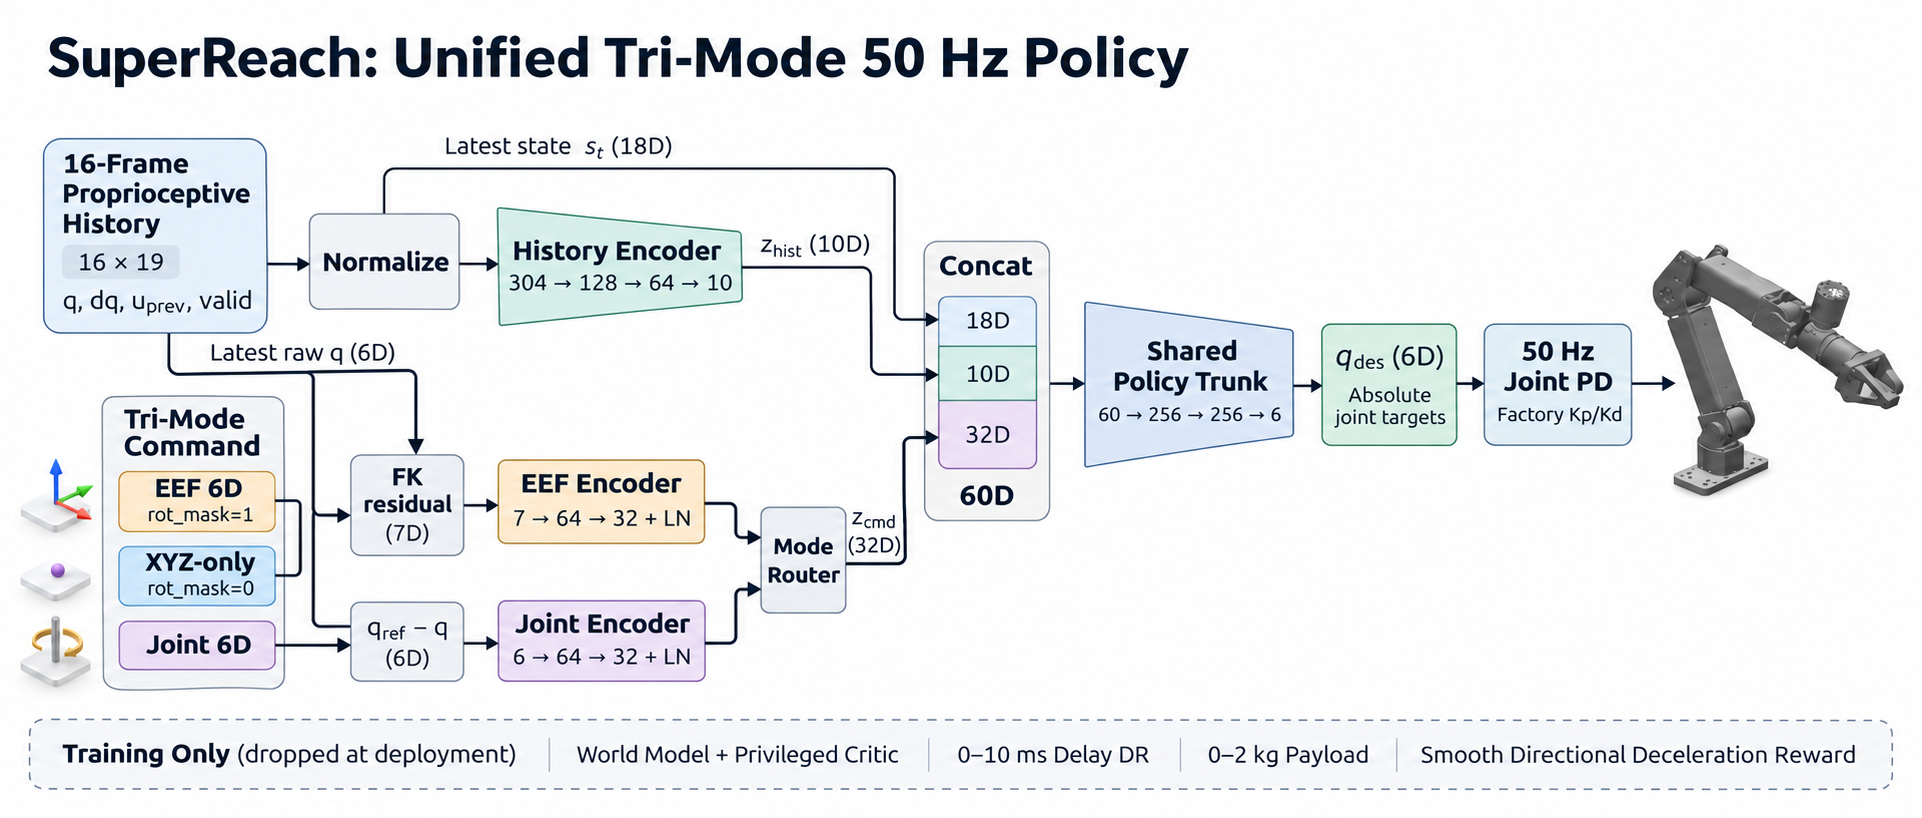
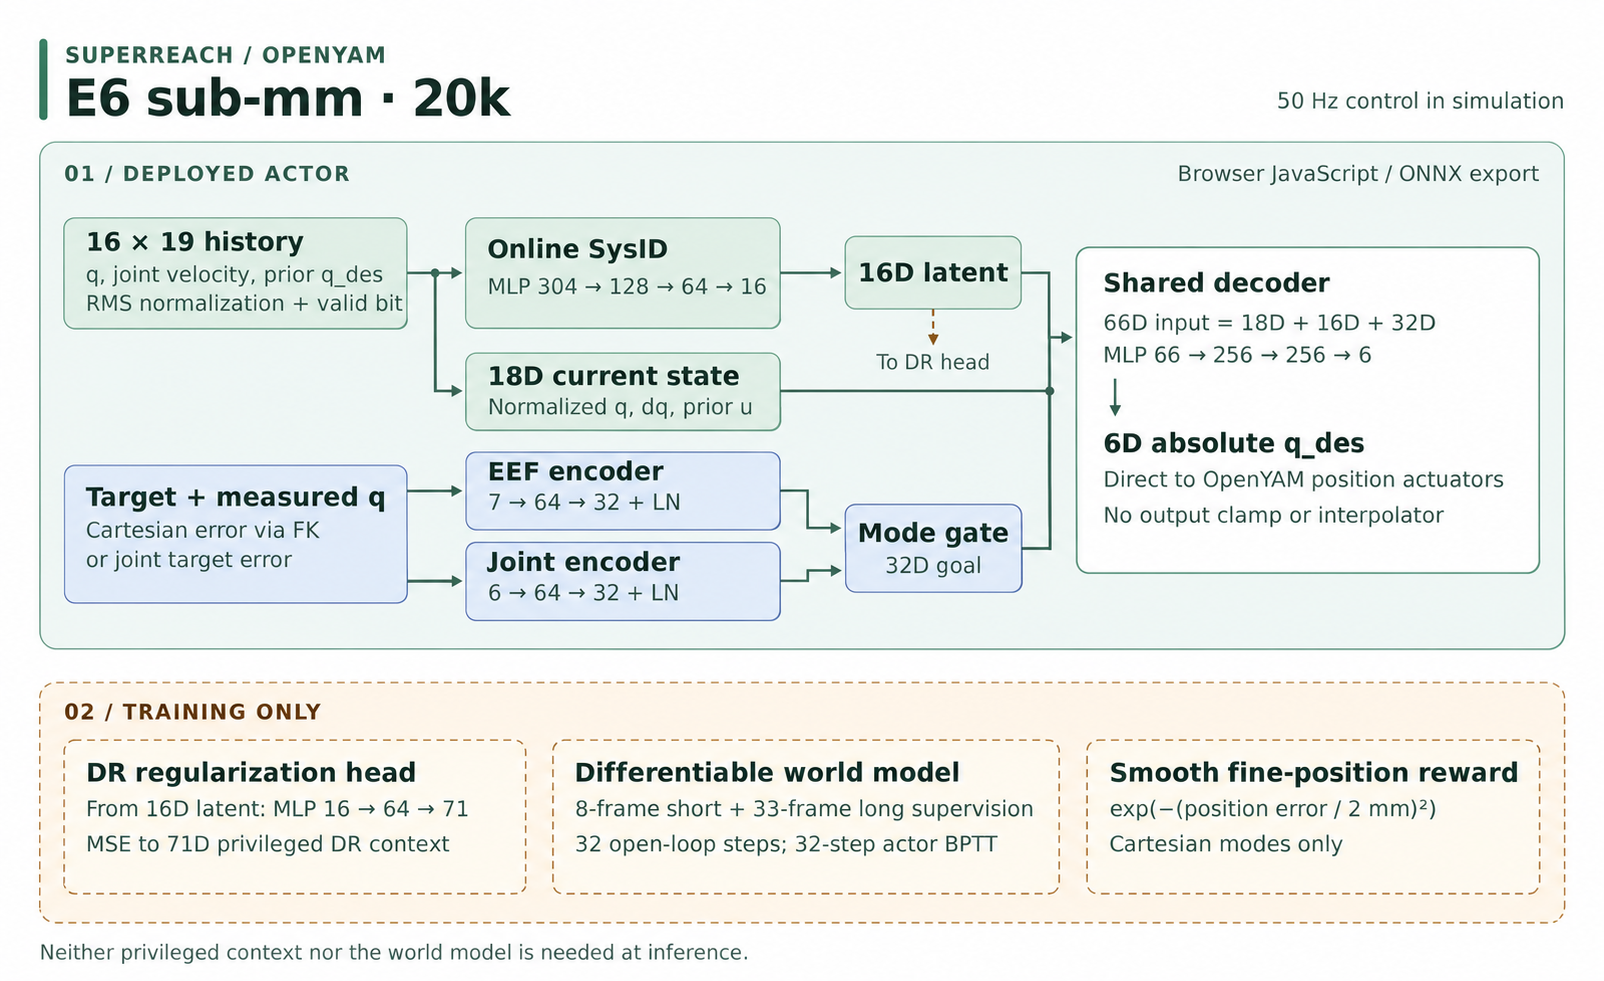
docs: show E6 sub-mm 20k architecture and evaluation

Changed region(s): [[0.0, 0.0306, 0.9975, 0.978], [0.904, 0.2445, 0.9663, 0.2751]]

diff --git a/README.md b/README.md
@@ -10,14 +10,16 @@ SuperReach is a learned 50 Hz controller for tracking arm goals on OpenYAM in si
 
 - One 50 Hz policy tracks **EEF 6D** (position and orientation), **XYZ-only** (position), or **Joint 6D** (joint angles).
 - The policy sends six absolute joint positions, `q_des`, directly to the simulator's position actuators without an output clamp, an interpolator, or external inverse kinematics.
-- Training accounts for sensor bias, noise, and command delays from 0 to 10 ms. The browser demo supports simulated payloads from 0 to 2 kg.
-- The browser deploys `e6-submm@20k`: a history-based system identification policy refined with 33-frame world-model supervision and a smooth fine-position reward. Policy inference runs in JavaScript and physics runs in MuJoCo WASM, with no inference backend.
+- The browser runs `e6-submm@20k` in JavaScript with MuJoCo WASM, no inference server, and simulated payloads from 0 to 2 kg.
+- In clean native MuJoCo HOME holds, mean tool-center-point (TCP) error after the first second was **0.72 mm** for EEF 6D and **0.38 mm** for XYZ-only. These stationary results cover four payloads per mode. The evaluator recorded **0 physical failures across 129 case/mode runs**. See the [evaluation protocol and raw results](docs/evaluation.md); these are simulation results, not hardware validation or moving-target error bounds.
 
 ## Model architecture
 
-![SuperReach policy architecture](docs/architecture.png)
+![E6 sub-mm 20k actor: causal history, online SysID, and two goal encoders feed a shared decoder; the DR head and world model are training-only](docs/architecture.png)
 
-Separate Cartesian and joint encoders handle the goal inputs. A history encoder reads 16 ticks of measured joint positions, velocities, and prior commands. The shared decoder combines the history and goal encodings to produce `q_des`.
+- **Online system identification (SysID):** A 16-tick history holds measured joint positions and velocities, previous issued commands, and a validity bit (`16 × 19`). The history encoder maps it to a **16D latent**. A training-only auxiliary head regularizes this latent by predicting **71D** of privileged domain-randomization (DR) context: payload inertial properties, link and actuator dynamics, and command delay. Neither the head nor its targets are used at inference.
+- **Goal conditioning:** The Cartesian encoder uses forward kinematics to compute the 7D input `[position error / 0.5, rotation error / π, rotation mask]`. XYZ-only zeros the rotation error. The joint encoder takes six joint-angle errors divided by π. Both encoders use a 64-unit hidden layer and produce layer-normalized **32D** embeddings. The mode selects one; the shared decoder takes **66D** (18D of normalized current joint state and previous command, 16D SysID, 32D goal) and outputs six absolute `q_des` positions at 50 Hz.
+- **Training:** The differentiable world model uses **8-frame** short-window supervision plus **33-frame** long-window supervision (one initial frame and 32 open-loop steps), matching the policy's 32-step training rollout. A smooth Cartesian fine-position bonus, `exp(−(position error / 2 mm)²)`, rewards small errors without a hard 2 mm cutoff. Training also includes sensor bias, noise, and 0–10 ms command delay.
 
 ## Quickstart
 
